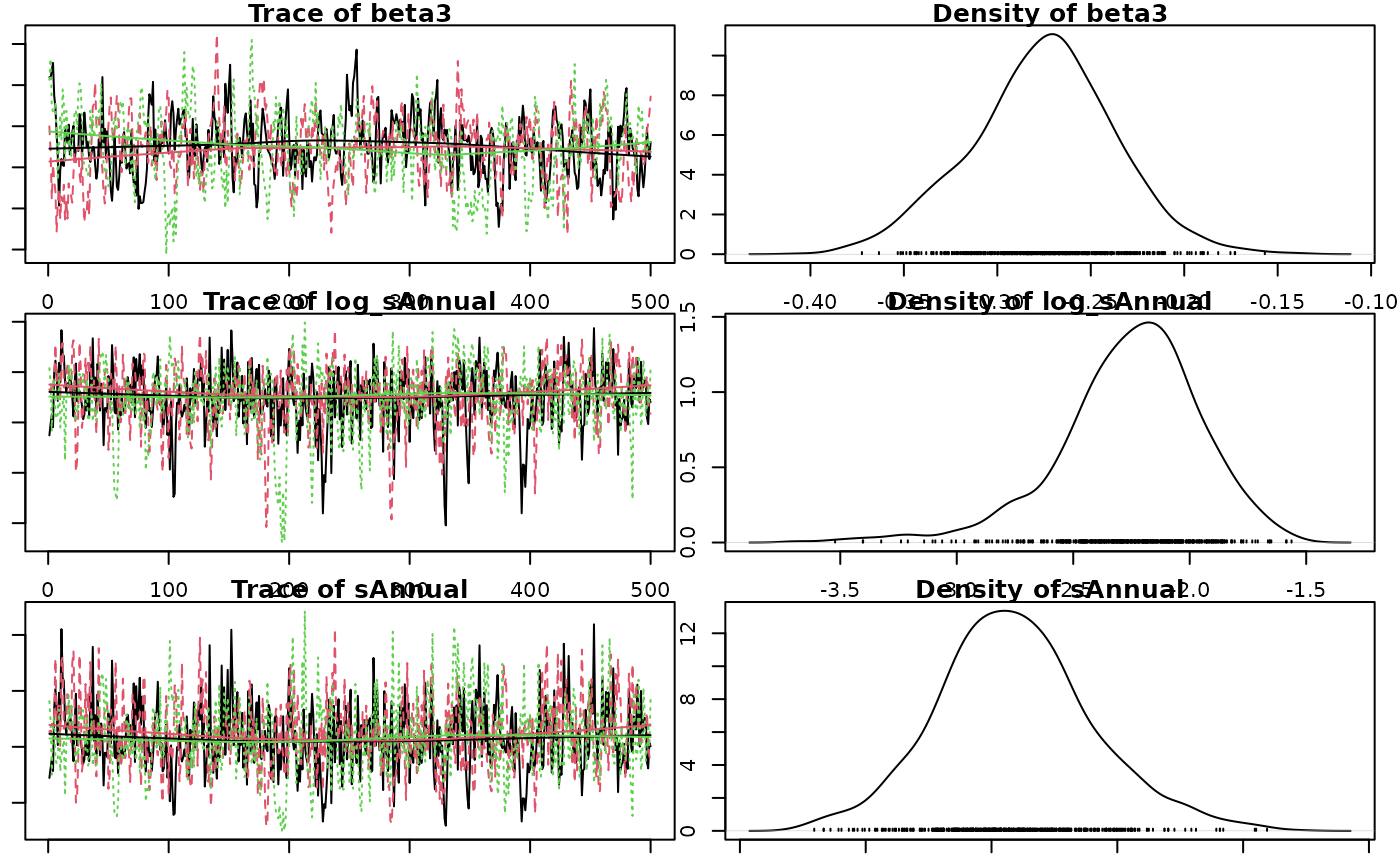
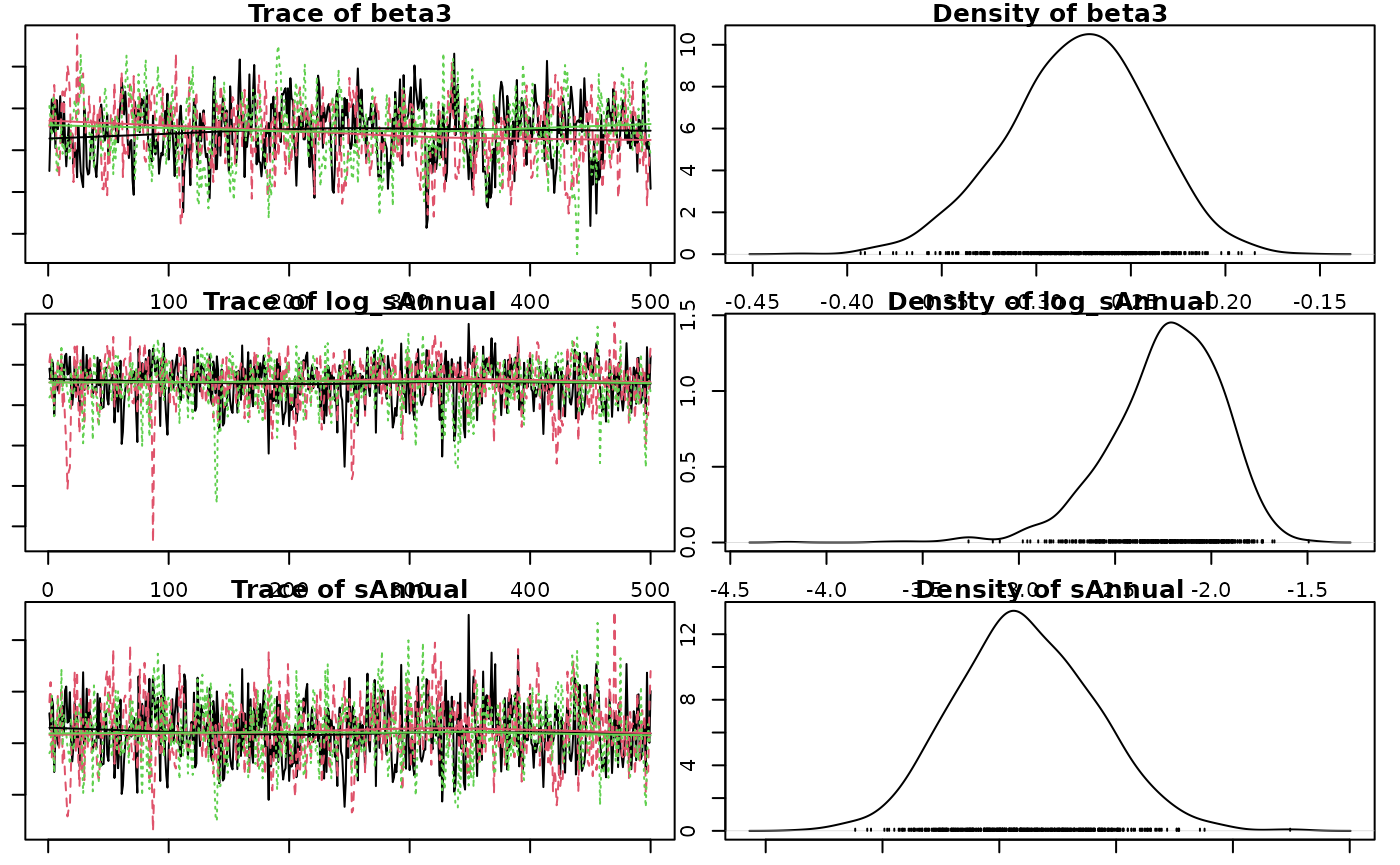
Built site for jmbr@0.0.0.9114: 3e02ea9

diff --git a/articles/jmbr.html b/articles/jmbr.html
@@ -300,14 +300,14 @@ value and discarding all other values.</p>
 <span><span class="co">#&gt; <span style="color: #949494;"># A tibble: 1 × 8</span></span></span>
 <span><span class="co">#&gt;       n     K nchains niters nthin   ess  rhat converged</span></span>
 <span><span class="co">#&gt;   <span style="color: #949494; font-style: italic;">&lt;int&gt;</span> <span style="color: #949494; font-style: italic;">&lt;int&gt;</span>   <span style="color: #949494; font-style: italic;">&lt;int&gt;</span>  <span style="color: #949494; font-style: italic;">&lt;int&gt;</span> <span style="color: #949494; font-style: italic;">&lt;int&gt;</span> <span style="color: #949494; font-style: italic;">&lt;int&gt;</span> <span style="color: #949494; font-style: italic;">&lt;dbl&gt;</span> <span style="color: #949494; font-style: italic;">&lt;lgl&gt;</span>    </span></span>
-<span><span class="co">#&gt; <span style="color: #BCBCBC;">1</span>    40     6       3    500    10   292  1.01 TRUE</span></span>
+<span><span class="co">#&gt; <span style="color: #BCBCBC;">1</span>    40     6       3    500    10   262  1.12 FALSE</span></span>
 <span><span class="co">#&gt; Warning in value[[3L]](cond): beep() could not play the sound due to the following error:</span></span>
 <span><span class="co">#&gt; Error in play.default(x, rate, ...): no audio drivers are available</span></span>
 <span><span class="va">analysis</span> <span class="op">&lt;-</span> <span class="fu"><a href="https://rdrr.io/pkg/embr/man/reanalyse.html" class="external-link">reanalyse</a></span><span class="op">(</span><span class="va">analysis</span><span class="op">)</span></span>
 <span><span class="co">#&gt; <span style="color: #949494;"># A tibble: 1 × 8</span></span></span>
 <span><span class="co">#&gt;       n     K nchains niters nthin   ess  rhat converged</span></span>
 <span><span class="co">#&gt;   <span style="color: #949494; font-style: italic;">&lt;int&gt;</span> <span style="color: #949494; font-style: italic;">&lt;int&gt;</span>   <span style="color: #949494; font-style: italic;">&lt;int&gt;</span>  <span style="color: #949494; font-style: italic;">&lt;int&gt;</span> <span style="color: #949494; font-style: italic;">&lt;int&gt;</span> <span style="color: #949494; font-style: italic;">&lt;int&gt;</span> <span style="color: #949494; font-style: italic;">&lt;dbl&gt;</span> <span style="color: #949494; font-style: italic;">&lt;lgl&gt;</span>    </span></span>
-<span><span class="co">#&gt; <span style="color: #BCBCBC;">1</span>    40     6       3    500    10   292  1.01 TRUE</span></span>
+<span><span class="co">#&gt; <span style="color: #BCBCBC;">1</span>    40     6       3    500    20   465  1.01 TRUE</span></span>
 <span><span class="co">#&gt; Warning in value[[3L]](cond): beep() could not play the sound due to the following error:</span></span>
 <span><span class="co">#&gt; Error in play.default(x, rate, ...): no audio drivers are available</span></span></code></pre></div>
 <p><strong>Analysis Table:</strong></p>
@@ -357,12 +357,12 @@ between- and within-chain estimates for model parameters.
 <span><span class="co">#&gt; <span style="color: #949494;"># A tibble: 6 × 7</span></span></span>
 <span><span class="co">#&gt;   term        estimate     sd  zscore   lower   upper   pvalue</span></span>
 <span><span class="co">#&gt;   <span style="color: #949494; font-style: italic;">&lt;term&gt;</span>         <span style="color: #949494; font-style: italic;">&lt;dbl&gt;</span>  <span style="color: #949494; font-style: italic;">&lt;dbl&gt;</span>   <span style="color: #949494; font-style: italic;">&lt;dbl&gt;</span>   <span style="color: #949494; font-style: italic;">&lt;dbl&gt;</span>   <span style="color: #949494; font-style: italic;">&lt;dbl&gt;</span>    <span style="color: #949494; font-style: italic;">&lt;dbl&gt;</span></span></span>
-<span><span class="co">#&gt; <span style="color: #BCBCBC;">1</span> alpha         4.26   0.039<span style="text-decoration: underline;">9</span> 107.     4.18    4.34   0.000<span style="text-decoration: underline;">666</span></span></span>
-<span><span class="co">#&gt; <span style="color: #BCBCBC;">2</span> beta1         1.20   0.075<span style="text-decoration: underline;">9</span>  15.8    1.06    1.35   0.000<span style="text-decoration: underline;">666</span></span></span>
-<span><span class="co">#&gt; <span style="color: #BCBCBC;">3</span> beta2        -<span style="color: #BB0000;">0.018</span><span style="color: #BB0000; text-decoration: underline;">3</span> 0.030<span style="text-decoration: underline;">1</span>  -<span style="color: #BB0000;">0.607</span> -<span style="color: #BB0000;">0.076</span><span style="color: #BB0000; text-decoration: underline;">1</span>  0.038<span style="text-decoration: underline;">8</span> 0.540   </span></span>
-<span><span class="co">#&gt; <span style="color: #BCBCBC;">4</span> beta3        -<span style="color: #BB0000;">0.274</span>  0.038<span style="text-decoration: underline;">7</span>  -<span style="color: #BB0000;">7.13</span>  -<span style="color: #BB0000;">0.354</span>  -<span style="color: #BB0000;">0.200</span>  0.000<span style="text-decoration: underline;">666</span></span></span>
-<span><span class="co">#&gt; <span style="color: #BCBCBC;">5</span> log_sAnnual  -<span style="color: #BB0000;">2.23</span>   0.310   -<span style="color: #BB0000;">7.28</span>  -<span style="color: #BB0000;">2.99</span>   -<span style="color: #BB0000;">1.73</span>   0.000<span style="text-decoration: underline;">666</span></span></span>
-<span><span class="co">#&gt; <span style="color: #BCBCBC;">6</span> sAnnual       0.108  0.031<span style="text-decoration: underline;">1</span>   3.52   0.050<span style="text-decoration: underline;">3</span>  0.177  0.000<span style="text-decoration: underline;">666</span></span></span></code></pre></div>
+<span><span class="co">#&gt; <span style="color: #BCBCBC;">1</span> alpha         4.26   0.039<span style="text-decoration: underline;">7</span> 107.     4.18    4.33   0.000<span style="text-decoration: underline;">666</span></span></span>
+<span><span class="co">#&gt; <span style="color: #BCBCBC;">2</span> beta1         1.20   0.073<span style="text-decoration: underline;">1</span>  16.5    1.07    1.36   0.000<span style="text-decoration: underline;">666</span></span></span>
+<span><span class="co">#&gt; <span style="color: #BCBCBC;">3</span> beta2        -<span style="color: #BB0000;">0.016</span><span style="color: #BB0000; text-decoration: underline;">0</span> 0.030<span style="text-decoration: underline;">6</span>  -<span style="color: #BB0000;">0.529</span> -<span style="color: #BB0000;">0.078</span><span style="color: #BB0000; text-decoration: underline;">2</span>  0.044<span style="text-decoration: underline;">0</span> 0.576   </span></span>
+<span><span class="co">#&gt; <span style="color: #BCBCBC;">4</span> beta3        -<span style="color: #BB0000;">0.276</span>  0.037<span style="text-decoration: underline;">4</span>  -<span style="color: #BB0000;">7.44</span>  -<span style="color: #BB0000;">0.354</span>  -<span style="color: #BB0000;">0.210</span>  0.000<span style="text-decoration: underline;">666</span></span></span>
+<span><span class="co">#&gt; <span style="color: #BCBCBC;">5</span> log_sAnnual  -<span style="color: #BB0000;">2.21</span>   0.294   -<span style="color: #BB0000;">7.59</span>  -<span style="color: #BB0000;">2.90</span>   -<span style="color: #BB0000;">1.77</span>   0.000<span style="text-decoration: underline;">666</span></span></span>
+<span><span class="co">#&gt; <span style="color: #BCBCBC;">6</span> sAnnual       0.110  0.029<span style="text-decoration: underline;">9</span>   3.72   0.055<span style="text-decoration: underline;">0</span>  0.171  0.000<span style="text-decoration: underline;">666</span></span></span></code></pre></div>
 <p>The estimate is the <strong>median</strong> by default.</p>
 <p>The zscore is
 <math display="inline" xmlns="http://www.w3.org/1998/Math/MathML"><semantics><mrow><mi>m</mi><mi>e</mi><mi>a</mi><mi>n</mi><mi>/</mi><mi>s</mi><mi>d</mi></mrow><annotation encoding="application/x-tex">mean / sd</annotation></semantics></math>.</p>
@@ -371,12 +371,12 @@ between- and within-chain estimates for model parameters.
 <span><span class="co">#&gt; <span style="color: #949494;"># A tibble: 6 × 5</span></span></span>
 <span><span class="co">#&gt;   term        estimate   lower   upper svalue</span></span>
 <span><span class="co">#&gt;   <span style="color: #949494; font-style: italic;">&lt;term&gt;</span>         <span style="color: #949494; font-style: italic;">&lt;dbl&gt;</span>   <span style="color: #949494; font-style: italic;">&lt;dbl&gt;</span>   <span style="color: #949494; font-style: italic;">&lt;dbl&gt;</span>  <span style="color: #949494; font-style: italic;">&lt;dbl&gt;</span></span></span>
-<span><span class="co">#&gt; <span style="color: #BCBCBC;">1</span> alpha         4.26    4.18    4.34   10.6  </span></span>
-<span><span class="co">#&gt; <span style="color: #BCBCBC;">2</span> beta1         1.20    1.06    1.35   10.6  </span></span>
-<span><span class="co">#&gt; <span style="color: #BCBCBC;">3</span> beta2        -<span style="color: #BB0000;">0.018</span><span style="color: #BB0000; text-decoration: underline;">3</span> -<span style="color: #BB0000;">0.076</span><span style="color: #BB0000; text-decoration: underline;">1</span>  0.038<span style="text-decoration: underline;">8</span>  0.888</span></span>
-<span><span class="co">#&gt; <span style="color: #BCBCBC;">4</span> beta3        -<span style="color: #BB0000;">0.274</span>  -<span style="color: #BB0000;">0.354</span>  -<span style="color: #BB0000;">0.200</span>  10.6  </span></span>
-<span><span class="co">#&gt; <span style="color: #BCBCBC;">5</span> log_sAnnual  -<span style="color: #BB0000;">2.23</span>   -<span style="color: #BB0000;">2.99</span>   -<span style="color: #BB0000;">1.73</span>   10.6  </span></span>
-<span><span class="co">#&gt; <span style="color: #BCBCBC;">6</span> sAnnual       0.108   0.050<span style="text-decoration: underline;">3</span>  0.177  10.6</span></span></code></pre></div>
+<span><span class="co">#&gt; <span style="color: #BCBCBC;">1</span> alpha         4.26    4.18    4.33   10.6  </span></span>
+<span><span class="co">#&gt; <span style="color: #BCBCBC;">2</span> beta1         1.20    1.07    1.36   10.6  </span></span>
+<span><span class="co">#&gt; <span style="color: #BCBCBC;">3</span> beta2        -<span style="color: #BB0000;">0.016</span><span style="color: #BB0000; text-decoration: underline;">0</span> -<span style="color: #BB0000;">0.078</span><span style="color: #BB0000; text-decoration: underline;">2</span>  0.044<span style="text-decoration: underline;">0</span>  0.795</span></span>
+<span><span class="co">#&gt; <span style="color: #BCBCBC;">4</span> beta3        -<span style="color: #BB0000;">0.276</span>  -<span style="color: #BB0000;">0.354</span>  -<span style="color: #BB0000;">0.210</span>  10.6  </span></span>
+<span><span class="co">#&gt; <span style="color: #BCBCBC;">5</span> log_sAnnual  -<span style="color: #BB0000;">2.21</span>   -<span style="color: #BB0000;">2.90</span>   -<span style="color: #BB0000;">1.77</span>   10.6  </span></span>
+<span><span class="co">#&gt; <span style="color: #BCBCBC;">6</span> sAnnual       0.110   0.055<span style="text-decoration: underline;">0</span>  0.171  10.6</span></span></code></pre></div>
 <p>The s-value is the <strong>suprisal</strong> value, which is a
 measure of directionality with respect to zero.</p>
 <p>The s-value is zero (unsurprising) when <em>p-value</em> = 1.0 and
@@ -514,7 +514,7 @@ in sequences.</li>
 
 <div class="pkgdown">
   <p></p>
-<p>Site built with <a href="https://pkgdown.r-lib.org/" class="external-link">pkgdown</a> 2.1.0.</p>
+<p>Site built with <a href="https://pkgdown.r-lib.org/" class="external-link">pkgdown</a> 2.1.0.9000.</p>
 </div>
 
       </footer>

diff --git a/CONTRIBUTING.html b/CONTRIBUTING.html
@@ -64,7 +64,7 @@
 <ul><li><p>Fork the package and clone onto your computer. If you haven’t done this before, we recommend using <code>usethis::create_from_github("", fork = TRUE)</code>.</p></li>
 <li><p>Install all development dependences with <code>devtools::install_dev_deps()</code>, and then make sure the package passes R CMD check by running <code>devtools::check()</code>. If R CMD check doesn’t pass cleanly, it’s a good idea to ask for help before continuing.</p></li>
 <li><p>Create a Git branch for your pull request (PR). We recommend using <code>usethis::pr_init("brief-description-of-change")</code>.</p></li>
-<li><p>Make your changes, commit to git, and then create a PR by running <code>usethis::pr_push()</code>, and following the prompts in your browser. The title of your PR should briefly describe the change. The body of your PR should contain <code>Fixes #issue-number</code>.</p></li>
+<li><p>Make your changes, commit to git, and then create a PR by running <code><a href="https://usethis.r-lib.org/reference/pull-requests.html" class="external-link">usethis::pr_push()</a></code>, and following the prompts in your browser. The title of your PR should briefly describe the change. The body of your PR should contain <code>Fixes #issue-number</code>.</p></li>
 <li><p>Begin commit or merge messages with <code>-</code> to indicate user facing changes that should be included in NEWS.md. We will use <a href="https://github.com/krlmlr/fledge" class="external-link">fledge</a> to automatically generate the NEWS.md file.</p></li>
 </ul></div>
 <div class="section level3">
@@ -95,7 +95,7 @@
 </div>
 
 <div class="pkgdown">
-  <p></p><p>Site built with <a href="https://pkgdown.r-lib.org/" class="external-link">pkgdown</a> 2.1.0.</p>
+  <p></p><p>Site built with <a href="https://pkgdown.r-lib.org/" class="external-link">pkgdown</a> 2.1.0.9000.</p>
 </div>
 
       </footer></div>

diff --git a/LICENSE-text.html b/LICENSE-text.html
@@ -68,7 +68,7 @@ COPYRIGHT HOLDER: Poisson Consulting
 </div>
 
 <div class="pkgdown">
-  <p></p><p>Site built with <a href="https://pkgdown.r-lib.org/" class="external-link">pkgdown</a> 2.1.0.</p>
+  <p></p><p>Site built with <a href="https://pkgdown.r-lib.org/" class="external-link">pkgdown</a> 2.1.0.9000.</p>
 </div>
 
       </footer></div>

diff --git a/404.html b/404.html
@@ -91,7 +91,7 @@ Content not found. Please use links in the navbar.
 
 <div class="pkgdown">
   <p></p>
-<p>Site built with <a href="https://pkgdown.r-lib.org/" class="external-link">pkgdown</a> 2.1.0.</p>
+<p>Site built with <a href="https://pkgdown.r-lib.org/" class="external-link">pkgdown</a> 2.1.0.9000.</p>
 </div>
 
       </footer>

diff --git a/CODE_OF_CONDUCT.html b/CODE_OF_CONDUCT.html
@@ -132,7 +132,7 @@
 </div>
 
 <div class="pkgdown">
-  <p></p><p>Site built with <a href="https://pkgdown.r-lib.org/" class="external-link">pkgdown</a> 2.1.0.</p>
+  <p></p><p>Site built with <a href="https://pkgdown.r-lib.org/" class="external-link">pkgdown</a> 2.1.0.9000.</p>
 </div>
 
       </footer></div>

diff --git a/LICENSE.html b/LICENSE.html
@@ -72,7 +72,7 @@
 </div>
 
 <div class="pkgdown">
-  <p></p><p>Site built with <a href="https://pkgdown.r-lib.org/" class="external-link">pkgdown</a> 2.1.0.</p>
+  <p></p><p>Site built with <a href="https://pkgdown.r-lib.org/" class="external-link">pkgdown</a> 2.1.0.9000.</p>
 </div>
 
       </footer></div>

diff --git a/SUPPORT.html b/SUPPORT.html
@@ -77,7 +77,7 @@
 </div>
 
 <div class="pkgdown">
-  <p></p><p>Site built with <a href="https://pkgdown.r-lib.org/" class="external-link">pkgdown</a> 2.1.0.</p>
+  <p></p><p>Site built with <a href="https://pkgdown.r-lib.org/" class="external-link">pkgdown</a> 2.1.0.9000.</p>
 </div>
 
       </footer></div>

diff --git a/articles/index.html b/articles/index.html
@@ -65,7 +65,7 @@
 </div>
 
 <div class="pkgdown">
-  <p></p><p>Site built with <a href="https://pkgdown.r-lib.org/" class="external-link">pkgdown</a> 2.1.0.</p>
+  <p></p><p>Site built with <a href="https://pkgdown.r-lib.org/" class="external-link">pkgdown</a> 2.1.0.9000.</p>
 </div>
 
       </footer></div>

diff --git a/authors.html b/authors.html
@@ -83,7 +83,7 @@
 </div>
 
 <div class="pkgdown">
-  <p></p><p>Site built with <a href="https://pkgdown.r-lib.org/" class="external-link">pkgdown</a> 2.1.0.</p>
+  <p></p><p>Site built with <a href="https://pkgdown.r-lib.org/" class="external-link">pkgdown</a> 2.1.0.9000.</p>
 </div>
 
       </footer></div>

diff --git a/news/index.html b/news/index.html
@@ -79,7 +79,7 @@
 </div>
 
 <div class="pkgdown">
-  <p></p><p>Site built with <a href="https://pkgdown.r-lib.org/" class="external-link">pkgdown</a> 2.1.0.</p>
+  <p></p><p>Site built with <a href="https://pkgdown.r-lib.org/" class="external-link">pkgdown</a> 2.1.0.9000.</p>
 </div>
 
       </footer></div>

diff --git a/reference/index.html b/reference/index.html
@@ -78,7 +78,7 @@
 </div>
 
 <div class="pkgdown">
-  <p></p><p>Site built with <a href="https://pkgdown.r-lib.org/" class="external-link">pkgdown</a> 2.1.0.</p>
+  <p></p><p>Site built with <a href="https://pkgdown.r-lib.org/" class="external-link">pkgdown</a> 2.1.0.9000.</p>
 </div>
 
       </footer></div>

diff --git a/reference/is.jmb_analysis.html b/reference/is.jmb_analysis.html
@@ -84,7 +84,7 @@
 </div>
 
 <div class="pkgdown">
-  <p></p><p>Site built with <a href="https://pkgdown.r-lib.org/" class="external-link">pkgdown</a> 2.1.0.</p>
+  <p></p><p>Site built with <a href="https://pkgdown.r-lib.org/" class="external-link">pkgdown</a> 2.1.0.9000.</p>
 </div>
 
       </footer></div>
